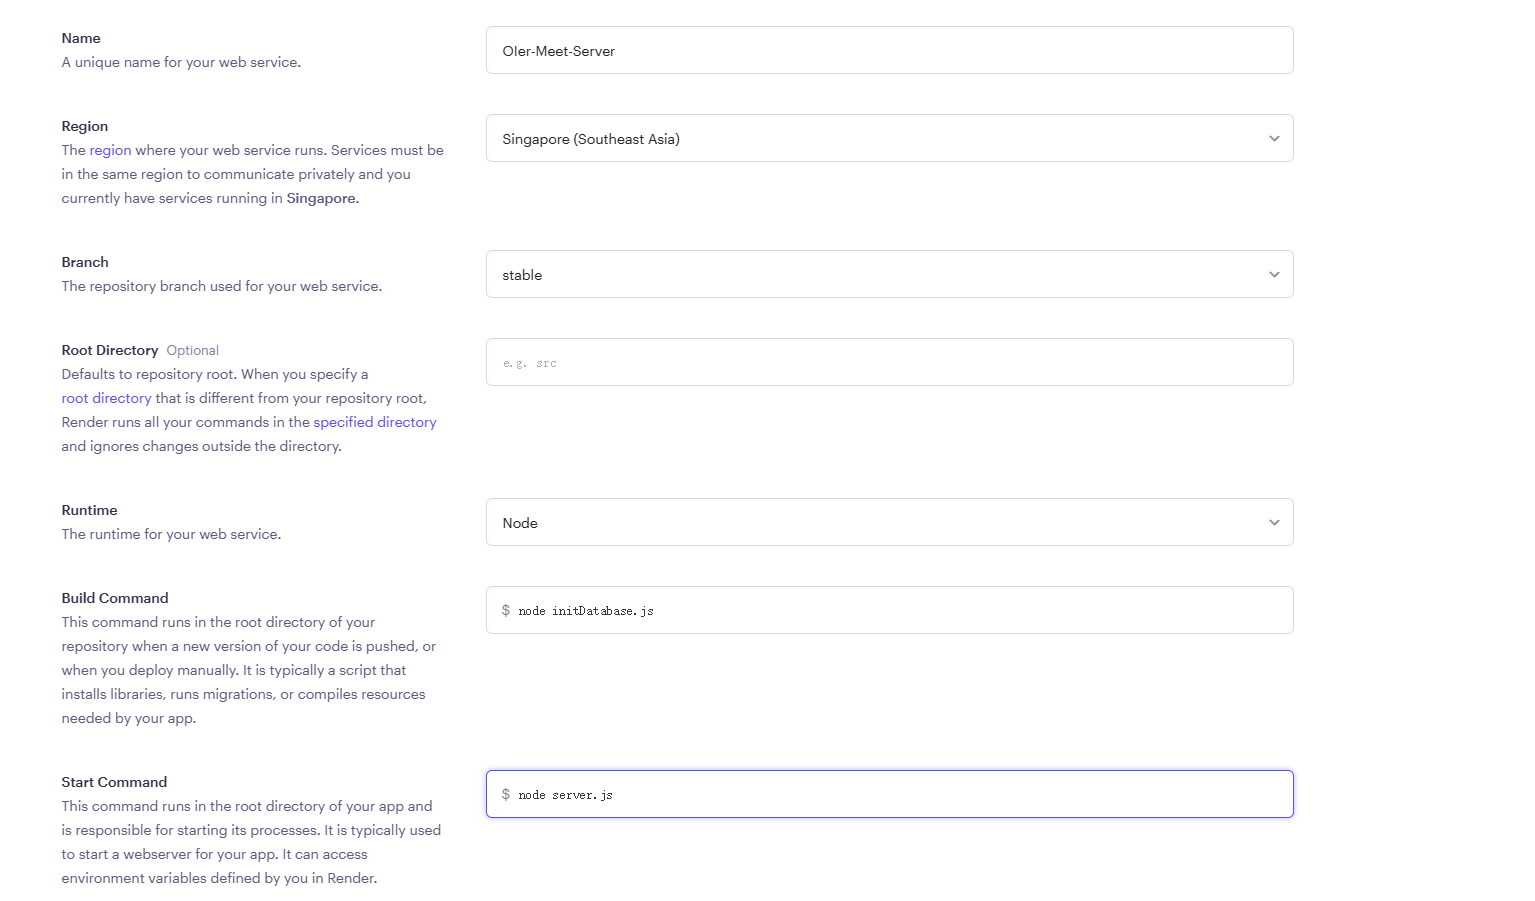
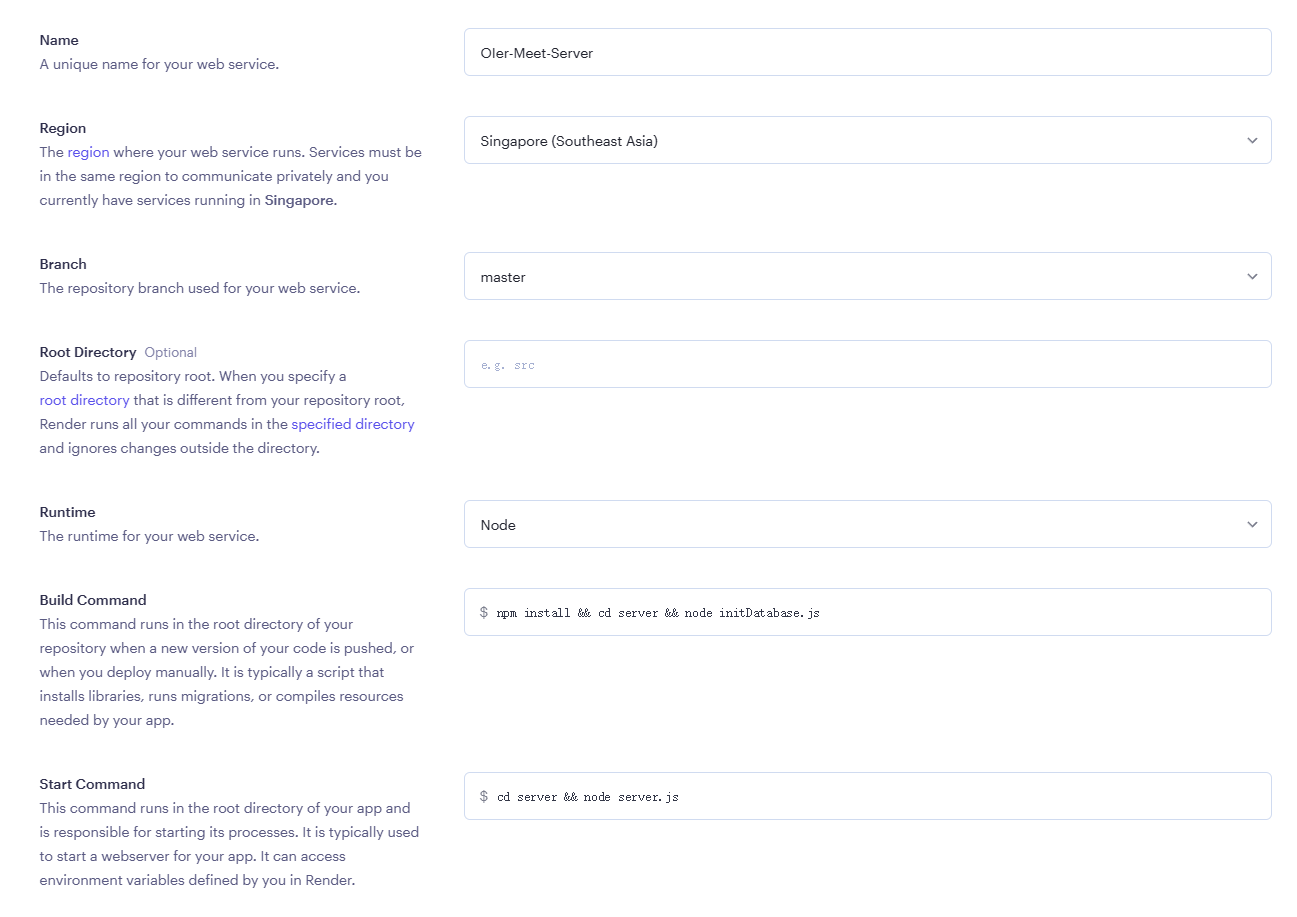
增加教程

diff --git a/README.md b/README.md
@@ -12,7 +12,7 @@
 
 可以打开 https://oier-meet.cn 来使用前端应用。
 
-也可以克隆仓库并打开 [index.html](index.html) 来使用前端。
+也可以克隆仓库并打开 [index.html](web/index.html) 来使用前端。
 
 如果没有服务器，想要部署免费的前端 + 后端，请查看 [Render 服务部署教程](doc/Render服务部署教程.md)。
 
@@ -31,7 +31,7 @@ $ node addOperator.js <用户名>
 
 ### 配置文件
 
-配置文件是 [config.json](config.json)，各字段注释如下：
+配置文件是 [config.json](server/config.json)，各字段注释如下：
 
 ```js
 {
@@ -59,9 +59,9 @@ $ node addOperator.js <用户名>
 
 服务器采用模块化设计。
 
-[modules](modules/) 目录中存放各模块， [modules.json](modules/modules.json) 是各接口的定义。
+[modules](server/modules/) 目录中存放各模块， [modules.json](server/modules/modules.json) 是各接口的定义。
 
-这些模块的父代码在 [route.js](route.js) 中以全局变量的方式加载。
+这些模块的父代码在 [route.js](server/route.js) 中以全局变量的方式加载。
 
 举例如下：
 

diff --git a/doc/Render服务部署教程.md b/doc/Render服务部署教程.md
@@ -14,6 +14,8 @@
 
 为了可以部署服务，用户需要有 [Gitee](https://gitee.com/) 账户，并且将 [原仓库](https://gitee.com/oier-meet-dev-team/oier-meet) 导入到 Github/Gitlab。
 
+Github 仓库请设为私有！
+
 ### 前端部署
 
 进入 "Static Sites" 来部署静态网站，在侧边栏登录 Github/Gitlab，并选择仓库：
@@ -84,7 +86,7 @@
 
 复制显示的 URI，完成。
 
-将显示的 URI 放到 Fork 的仓库里的配置文件（config.json），如：
+将显示的 URI 放到 Fork 的仓库里的配置文件（server/config.json），如：
 
 ```javascript
 "database": {
@@ -94,3 +96,15 @@
 ```
 
 克隆仓库到本地，提交更改即可。
+
+### 前端服务器添加
+
+在 Fork 的 Github 仓库里打开 [web/js/css_style.js](web/js/css_style.js)：
+
+更改服务器列表：
+
+```javascript
+var res = //服务器列表
+    "OIer-Meet官方服务器 L1uTongwei https://gitee.com/oier-meet-dev-team https://api.oier-meet.cn"
+  + "XXX服务器（名称） （维护者名称） （服务器描述页，选填） （服务器地址）";
+```
